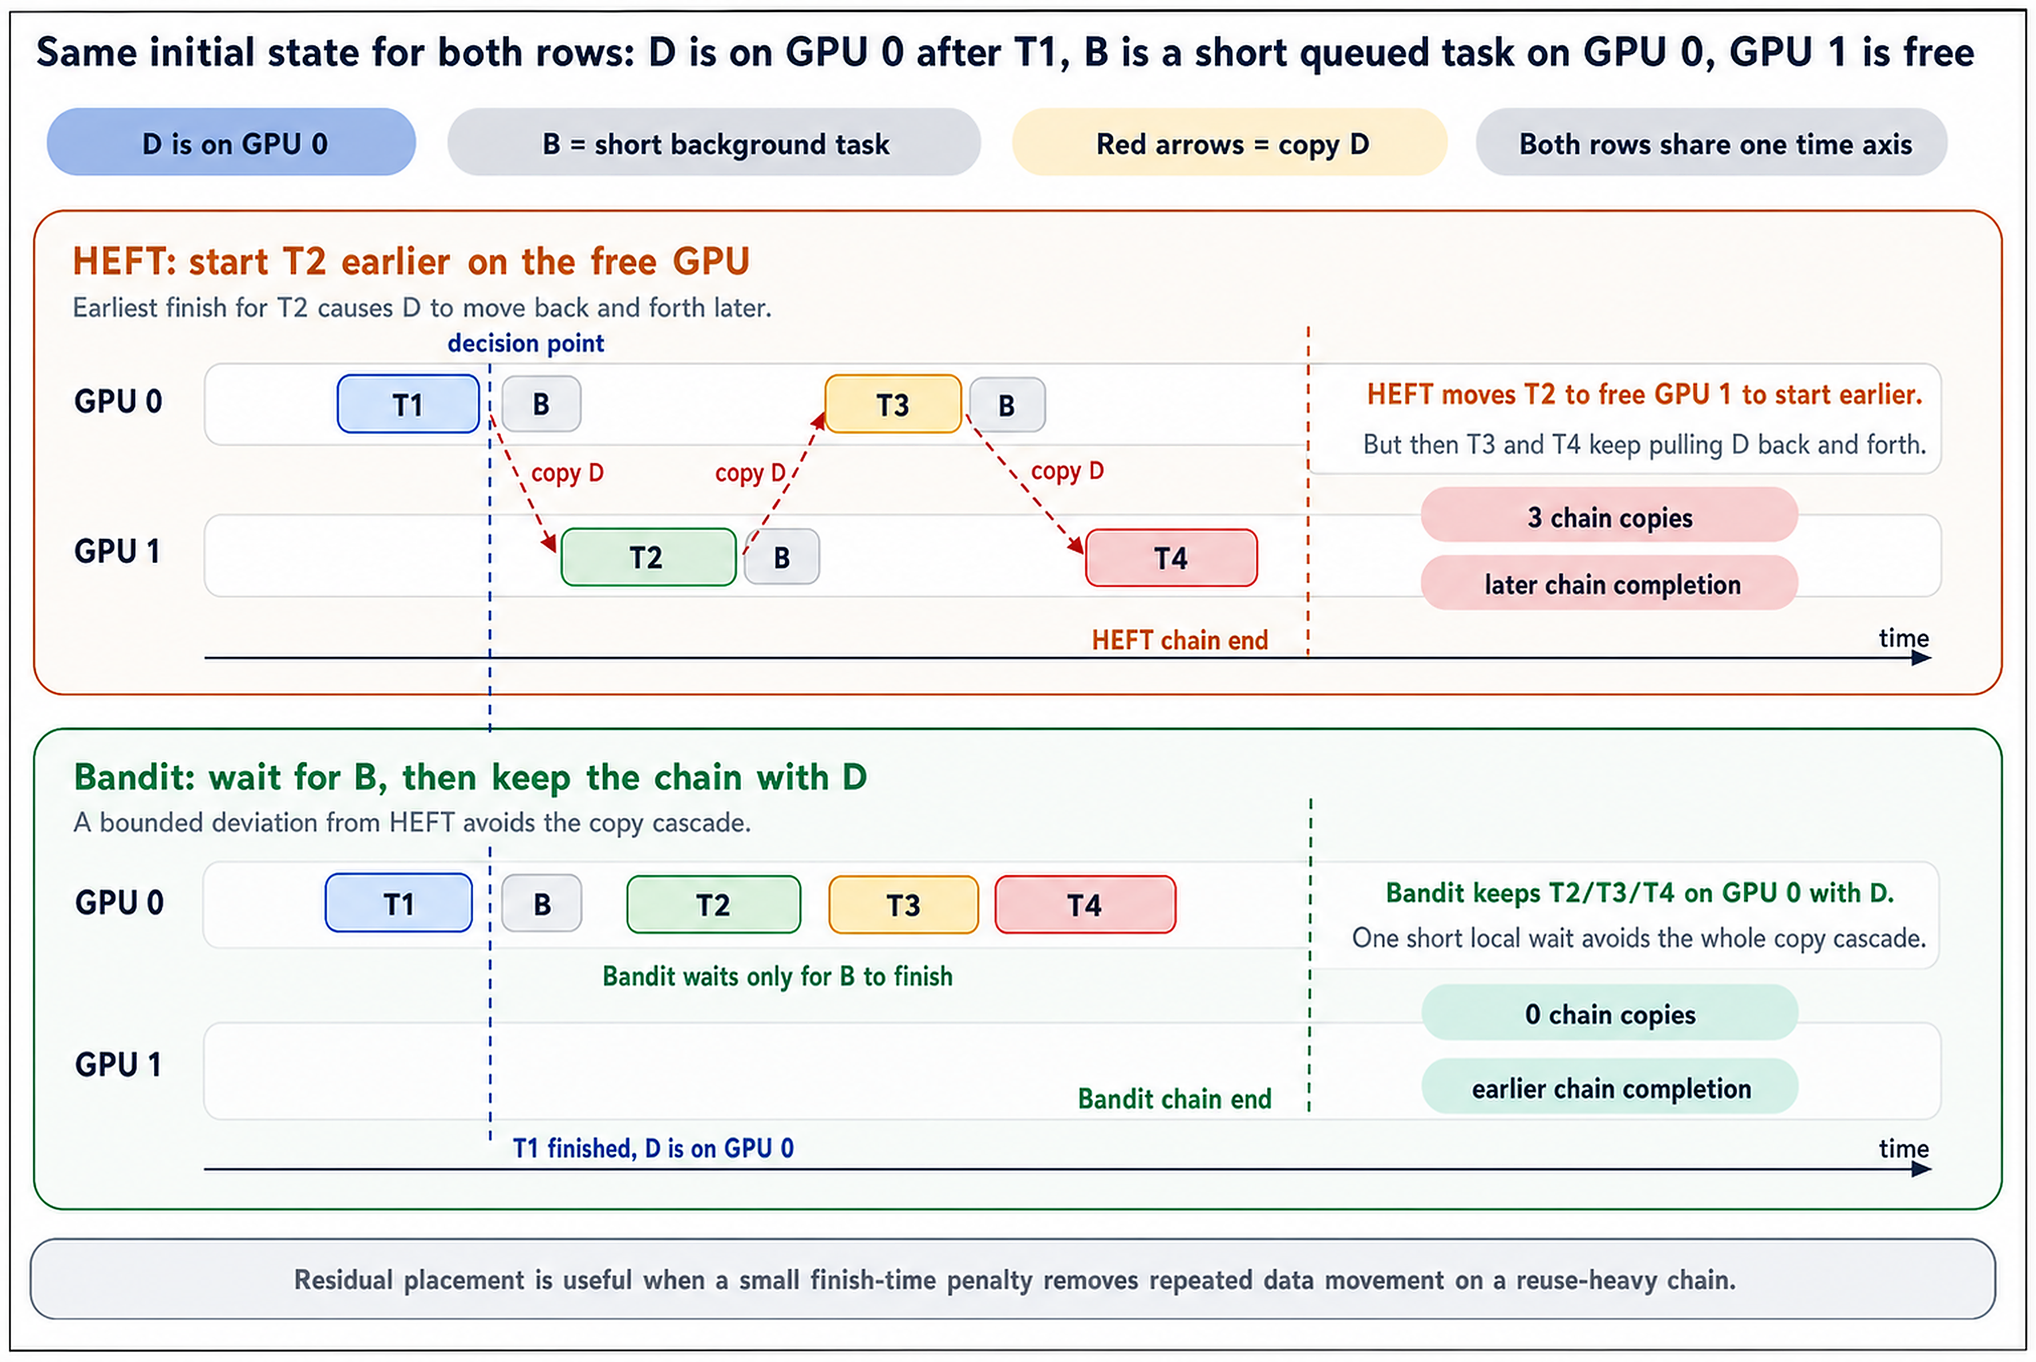
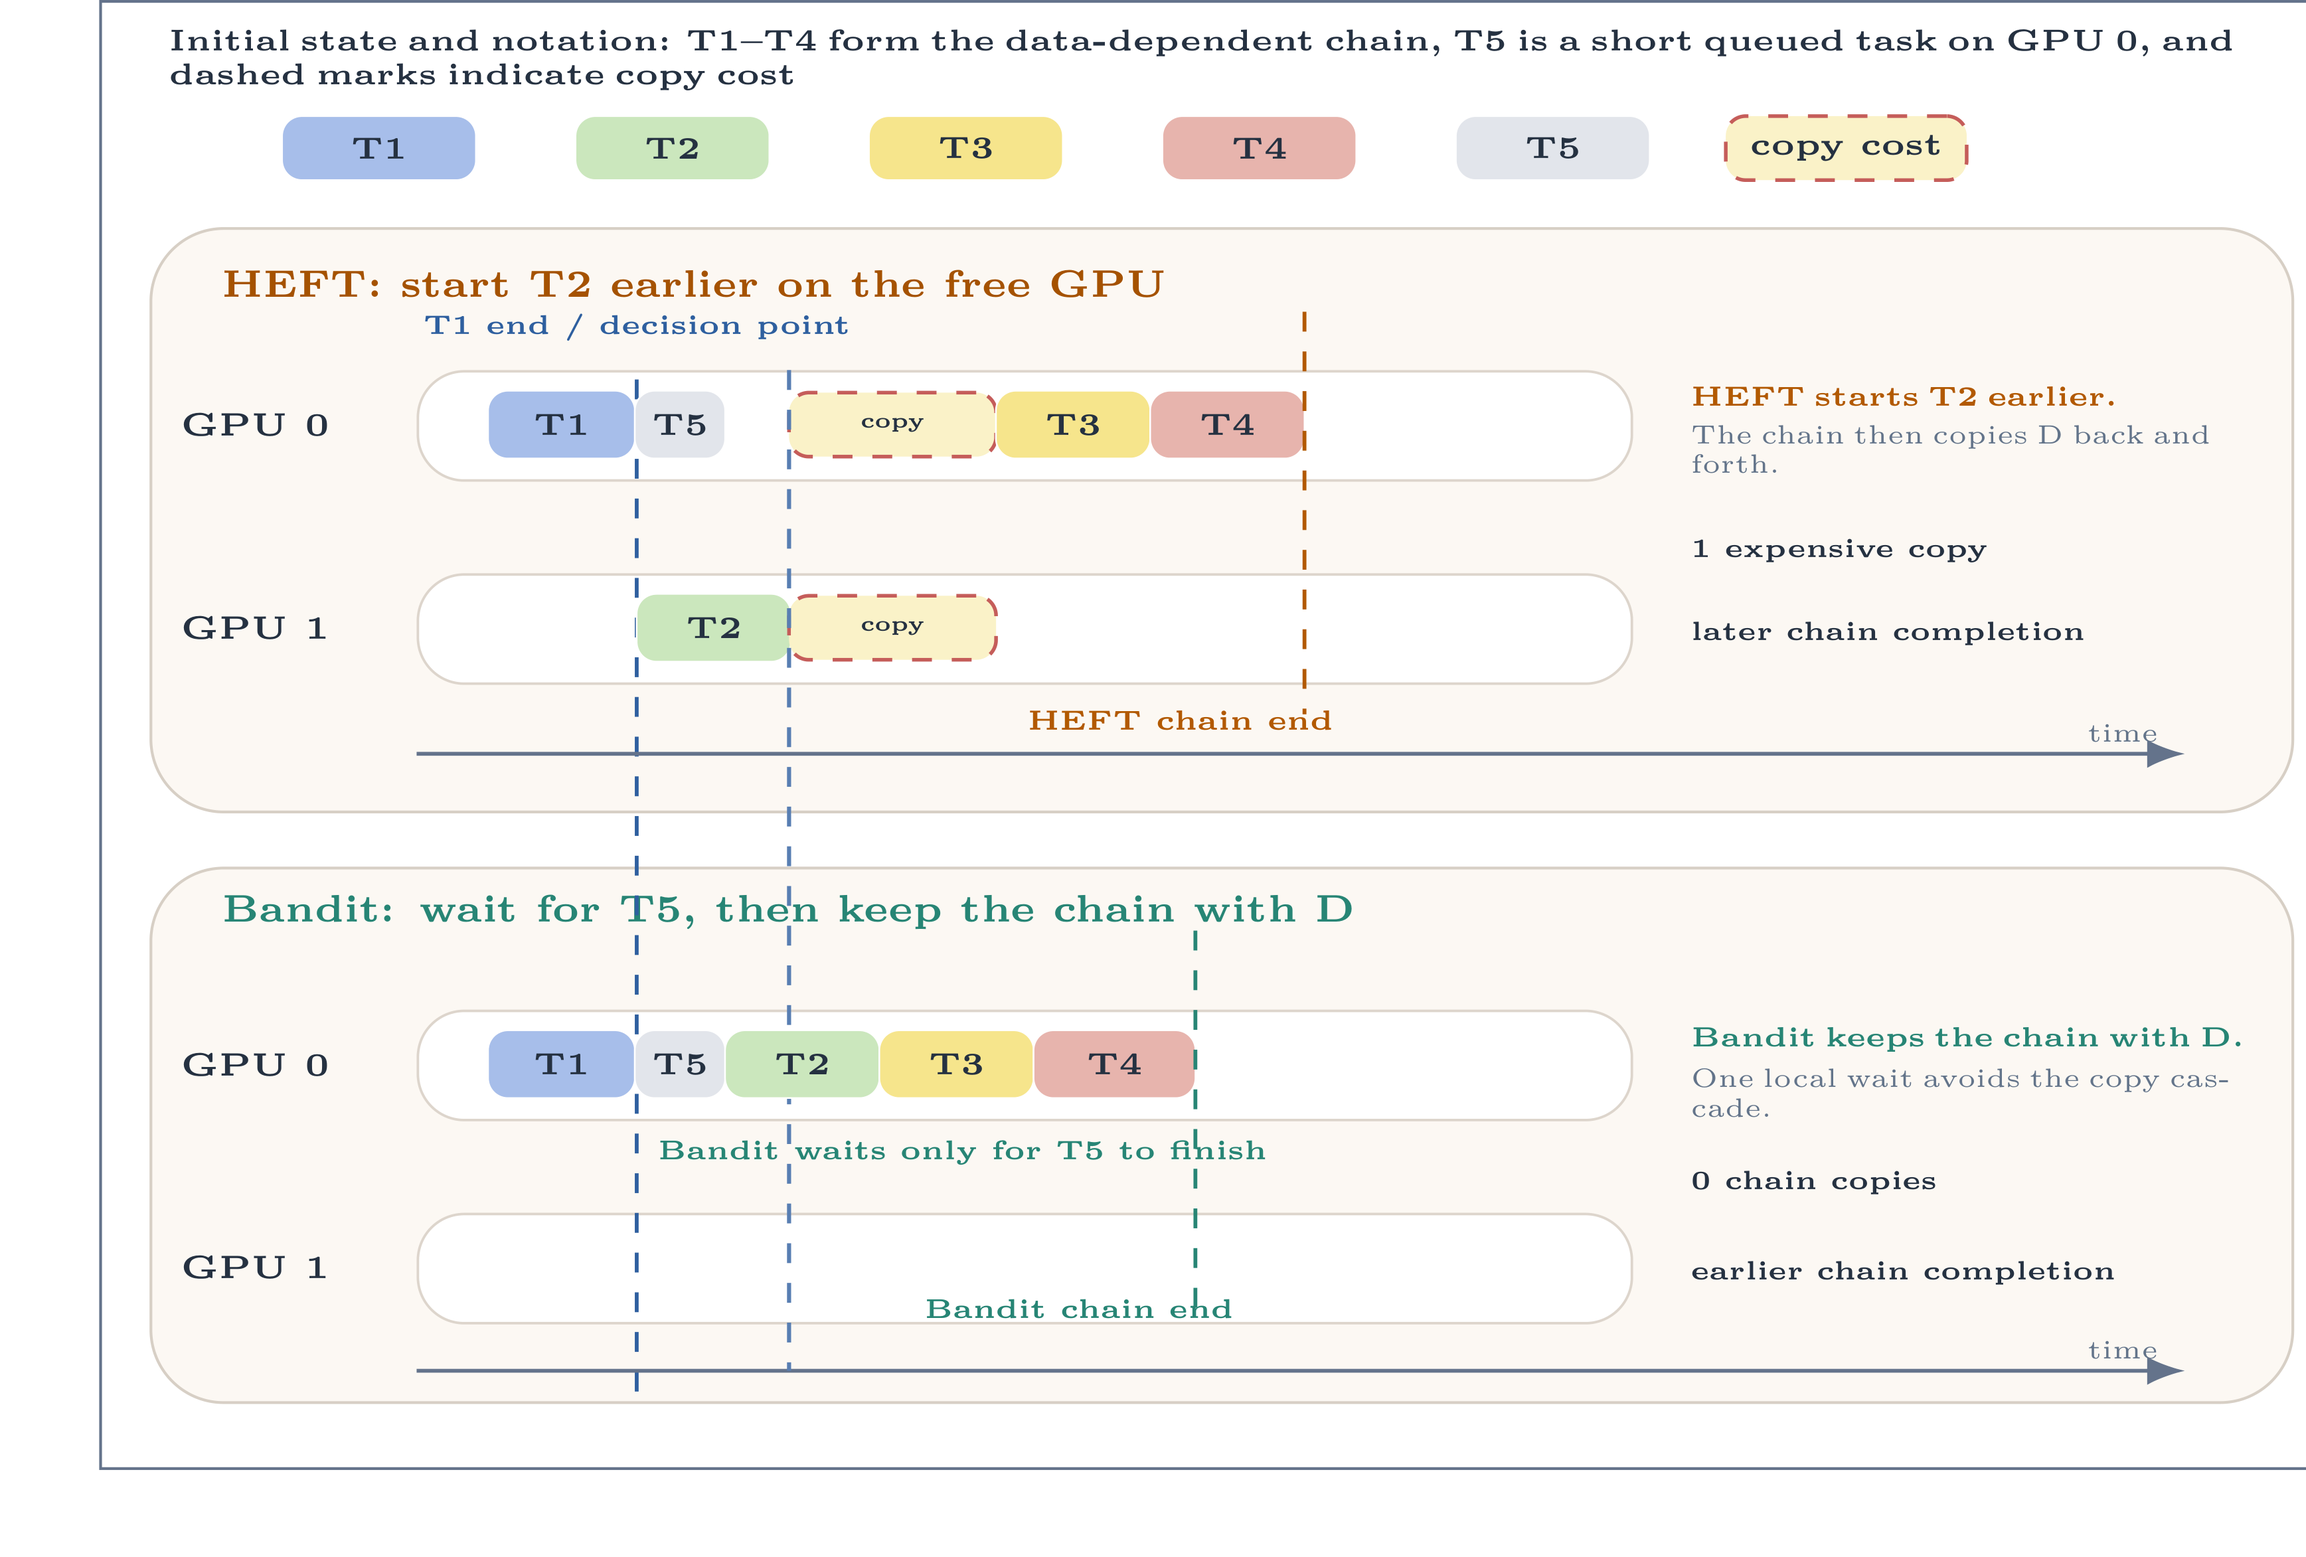
figures: replace placement motivation diagram

diff --git a/include/MechanismFigures.tex b/include/MechanismFigures.tex
@@ -128,9 +128,9 @@
 }
 
 \newcommand{\figMethodsPlacementMotivation}{%
-\begin{figure}[!ht]
+\begin{figure}[!htbp]
 \centering
-\includegraphics[width=0.82\linewidth,height=0.28\textheight,keepaspectratio]{figures/methods_placement_motivation.png}
+\includegraphics[width=0.96\linewidth,height=0.34\textheight,keepaspectratio]{figures/methods_placement_motivation.png}
 \caption{Motivating example for HEFT-relative residual placement. A HEFT-local earliest-finish decision can introduce downstream copies, while a bounded residual deviation can keep successor data local.}
 \label{fig:methods-placement-motivation}
 \end{figure}%
